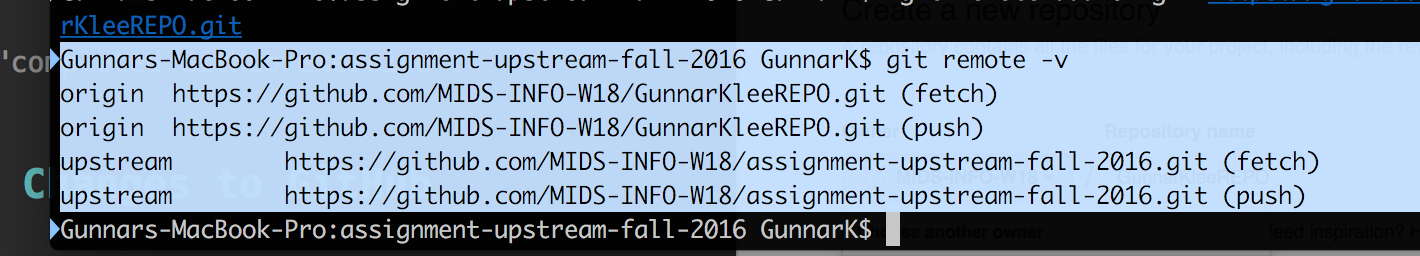
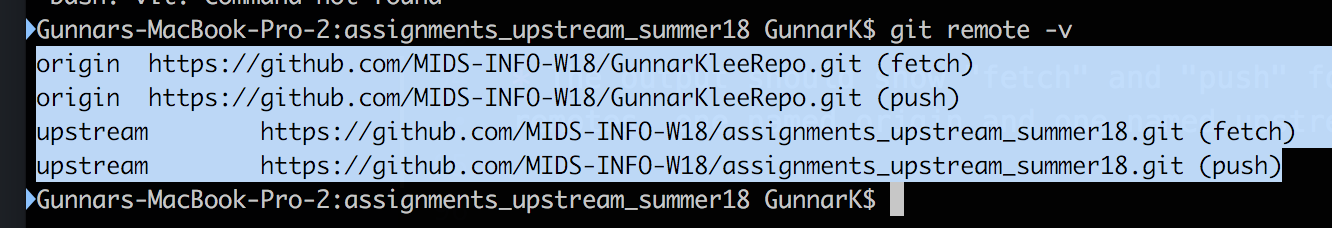
updated installation instructions for summer2018

diff --git a/Completing Your First Exercise With Git Reading Card.md b/Completing Your First Exercise With Git Reading Card.md
@@ -1,10 +1,10 @@
-## First excercise with Git 
+## First excercise with Git
 
 Before proceeding, use the following instructions to set up your local assignment repository.  This will be the place you work on your class assignments and it will be linked to two remote repositories on GitHub making a V shaped unidirectional workflow:
 
-**Download [1.15 The Course Workflow.pptx](https://github.com/MIDS-INFO-W18/Course-Syllabus/blob/master/week_01/1.15%20The%20Course%20Workflow.pptx) for a diagram of this process** 
+**Download [1.15 The Course Workflow.pptx](https://github.com/MIDS-INFO-W18/Course-Syllabus/blob/master/week_01/1.15%20The%20Course%20Workflow.pptx) for a diagram of this process**
 
-1. **assignments-upstream-spring18** - You should be able to find this repository in our class organization on GitHub: **https://github.com/MIDS-INFO-W18/assignments-upstream-spring18**. This is where we will post all class assignments.  You have read access to this repository, and each week you will use a pull command to download the latest assignments to your own machine then push your submissions to your student repository **(recall the "V" shape)**.
+1. **assignments_upstream_summer18** - You should be able to find this repository in our class organization on GitHub: **https://github.com/MIDS-INFO-W18/assignments_upstream_summer18**. This is where we will post all class assignments.  You have read access to this repository, and each week you will use a pull command to download the latest assignments to your own machine then push your submissions to your student repository **(recall the "V" shape)**.
 2. **Your student repository** - In this excercise you will make your own student remote repository. You should have write access to your student repisitory, but it will be only readable by you and your instructors.  When you complete your homework each week, you will use a push command to upload your work to this repository.
 
 ## Initial Setup
@@ -14,7 +14,7 @@ There are several ways that you can set up your local repository.  We recommend 
 First create an empty repository in Github for your homework, you can do this through the github user interface.
 
 
-## Create a new repository 
+## Create a new repository
 
 * this is done through the add menu on the upper right
 
@@ -30,7 +30,7 @@ First create an empty repository in Github for your homework, you can do this th
 
 --
 * Make the repository **private** with the radio button
- 
+
 # Important: Do not add a readme file you need an empty repository
 
 ![New repo menu item](images/CreateRepo_3.png)
@@ -57,19 +57,19 @@ You need to tell git that you will be pulling content (homeworks) onto your mach
 
 Open a command prompt and use it to navigate to your desktop or course working directory.  Then execute the following commands:
 
-*Note: lines preceeded by "#" are comments to explain each step and should not be executed.* 
+*Note: lines preceded by "#" are comments to explain each step and should not be executed.*
 
 ``` sh
 # clone the assignment repository onto your computer
 
-git clone https://github.com/MIDS-INFO-W18/assignments-upstream-spring18.git
+git clone https://github.com/MIDS-INFO-W18/assignments_upstream_summer18.git
 
 # Note: This may be an empty repository at the beginning of the course.
 
-cd assignments-upstream-spring18
+cd assignments_upstream_summer18
 # (or cd assignment-upstream-w18 for the 10 week course)
 
-git remote add upstream https://github.com/MIDS-INFO-W18/assignments-upstream-spring18.git
+git remote add upstream https://github.com/MIDS-INFO-W18/assignments_upstream_summer18.git
 ```
 
 You can find the URL for YourNameREPO by navigating to the appropriate repository in your web browser, then clicking on the "Clone or download" button in the upper right corner.
@@ -91,30 +91,28 @@ To check if you did everything right, execute the following command:
 git remote -v
 ```
 
-* The output should show "fetch" and "push" for two remotes, one named origin and one named upstream. 
+* The output should show "fetch" and "push" for two remotes, one named origin and one named upstream.
 
-
-###### Note: the name of the upstream folder differs based on the semester. The example screenshots are from fall 2016 thus we see: assignment-upstream-fall-2016.  
 
 ![New repo menu item](images/CreateRepo_7.png)
 
 
-* You should also use the **ls** command to confirm that the assignment files have been copied to your machine.
-	
+* You should also use the **ls** (list) command to confirm that the assignment files have been copied to your machine.
+
 
 ## Workflow for Each Week
 
-Each week, you will begin by navigating to your local version of **assignments-upstream-spring18**, and downloading the latest changes from the remote assignments-upstream-spring18 repository. You do this with a git pull:
+Each week, you will begin by navigating to your local version of **assignments_upstream_summer18**, and downloading the latest changes from the remote assignments_upstream_summer18 repository. You do this with a git pull:
 
 ``` sh
 git pull upstream master
 ```
 
-Next, you will have a **assignments-upstream-spring18/SUBMISSIONS** folder that you will make in the next exercise.
+Next, you will have a **assignments_upstream_summer18/SUBMISSIONS** folder that you will make in the next exercise.
 
-* Make a copy of your assigmment and move it to the SUBMISSIONS folder. 
- 
-* Complete all the exercises in the **assignments-upstream-spring18/SUBMISSIONS** folder on your local machine and commit your changes to git.  
+* Make a copy of your assignment and move it to the SUBMISSIONS folder.
+
+* Complete all the exercises in the **assignments_upstream_summer18/SUBMISSIONS** folder on your local machine and commit your changes to git.  
 
 * Finally, you'll push your changes up to your personal student repository on github.  You can do this with the following command:
 
@@ -125,24 +123,33 @@ git push origin master
 
 ## Completing the Exercise
 
-For this exercise you will post your first work to the assignments-upstream-spring18 repository. The Github repository **installation** contains the exercise. 
+For this exercise you will post your first work to the assignments_upstream_summer18 repository. The Github repository **installation** contains the exercise.
 
-* Make a new folder called **"SUBMISSIONS"** in your local assignments-upstream-spring18 folder
 
-	* Try using the **mkdir** command from within your local assignments-upstream-spring18
+* Make a new folder called **"SUBMISSIONS"** in your local assignments_upstream_summer18 folder
 
-* Clone the installation directory to your local machine
+  **IMPORTANT:** the SUBMISSIONS folder is the place that you can safely put modified files. Don't add or change files outside of the submissions folder because that can cause UGLY merge conflicts.
+
+	* Try using the **mkdir** command from within your local assignments_upstream_summer18
+
+
+
+* Now that you have your assignments_upstream repository set up on your computer *move out of it* and Clone the installation directory to your local machine
 
 ```sh
+cd ..
+
 git clone https://github.com/MIDS-INFO-W18/Installation.git
 ```
 
-* Copy the file "First\_GitHub\_Exercise.txt" 
-	* From your local **Installation** directory. 
-To your local **assignments-upstream-spring18/SUBMISSIONS** folder (or **assignment-upstream-w18/SUBMISSIONS** folder)
+* Copy the file "First\_GitHub\_Exercise.txt"
+
+	* From your local Installation repository.
+To your local **assignments_upstream_summer18/SUBMISSIONS** folder.
+
 	* To copy the file you can practice using the command line **cp** command or just drag and drop the file.
 
-* Open the file, answer the questions, and save.
+* Open the "First\_GitHub\_Exercise.txt", answer the questions, and save.
 
 * Commit the changes to your local repository. Go back to your command terminal and type the following.
 
@@ -154,7 +161,7 @@ git status
 ``` sh
 git add SUBMISSIONS/
 
-#check status to see that your file has been added as a new file (in green) 
+#check status to see that your file has been added as a new file (in green)
 
 git status
 
@@ -174,9 +181,9 @@ git push origin master
 Check the GitHub repository in your browser to confirm that your changes are there.
 
 
-## merging 
+## merging
 
-* Note: from time to time you may have to merge the upstream and your local drive when you **pull** in a version of the repository that are not the same. you may see a screen like this
+* Note: from time to time you may have to merge the upstream and your local drive when you **pull** in a version of the repository that are not the same. you may see a screen like this, We are using an old (2016) repository in this example
 
 ![New repo menu item](images/CreateRepo_8.png)
 
@@ -184,13 +191,15 @@ Check the GitHub repository in your browser to confirm that your changes are the
 
 to do this:
 
-1) Type 'i' to enter the "insert" mode (look to the bottom of the screen for the word "INSERT"
+1) Type **i** to enter the "insert" mode (look to the bottom of the screen for the word "INSERT"
 
 2) Use arrow keys to navigate to the line above the blue tilde and type in a message (any explanation about one line long)
 
-3) Exit the insert mode by pushing "esc" ("INSERT" will disapear) then 
+3) Exit the insert mode by pushing **esc** ("INSERT" will disapear) then
 
 4) type **:wq** this means *"write then quit"*
-you should see some sort of message indicating that the merge was sucessful as shown below.
+you should see some sort of message indicating that the merge was successful as shown below.
+
+5) **Side Note:** If you have not made any changes VIM will not want to quit and you can force it to quit without recording changes using **:q!**. * Since you are entering a merge note, This should not happen, however it is good to note that VIM has a rich array of advanced commands; a topic better left for later.*
 
 ![New repo menu item](images/CreateRepo_9.png)

diff --git a/Install 2 - Anaconda installation.md b/Install 2 - Anaconda installation.md
@@ -7,20 +7,20 @@ We are using the Anaconda distribution of python in order to smooth the process 
 
 **1. Download *python 3* from the [Anaconda distribution page](https://www.continuum.io/downloads)**
 
-* If you are working on a Linux or MacOS machine, you can choose to download the command line or graphical installer version. 
+* If you are working on a Linux or MacOS machine, you can choose to download the command line or graphical installer version.
 * Windows users should install the graphical package.
 
 ## With the graphical installer
 
-* The graphical package can be downloaded and the installer should walk you though the set up. 
+* The graphical package can be downloaded and the installer should walk you though the set up.
 * Be sure to allow the Anaconda to **"prepend the Anaconda3 install location to PATH"** so that the anaconda components can be found.
 
 ## From the command line
 
-* The steps are the same for MacOSX and Linux. 
+* The steps are the same for MacOSX and Linux.
 * Download the command line installer by **clicking** on the link, using **curl**, or using **wget** to download the file for you.
 
-		$ curl -O "http://repo.continuum.io/archive/Anaconda3-4.4.0-MacOSX-x86_64.sh"
+		$ curl -O "https://repo.anaconda.com/archive/Anaconda3-5.1.0-MacOSX-x86_64.pkg"
 
 **Execute the installer**
 
@@ -29,11 +29,11 @@ We are using the Anaconda distribution of python in order to smooth the process 
 * write "bash" even within the bash shell
 you should be able to locate the downloaded file in your local folder or in the downloads folder
 
-		Anaconda3-4.4.0-MacOSX-x86_64.sh
-		
+		Anaconda3-5.1.0-MacOSX-x86_64.sh
+
 		$ cd <directory-with-installer>
-		$ bash Anaconda3-4.4.0-MacOSX-x86_64.sh
-	
+		$ bash Anaconda3-5.1.0-MacOSX-x86_64.sh
+
 
 * Be sure to allow the Anaconda to **"prepend the Anaconda3 install location to PATH"** so that the anaconda components can be found
 
@@ -42,11 +42,11 @@ you should be able to locate the downloaded file in your local folder or in the 
 
 * Type python at the command line and you should see a version of python 3 listed
 
-		$ python 
+		$ python
 		"Python 3.5.1 |Continuum Analytics..." # some version of python 3
 
 * Exit and run the juptyer notebook
-		
+
 		>>> exit ()
 		$ Jupyter notebook
 
@@ -61,23 +61,23 @@ you should be able to locate the downloaded file in your local folder or in the 
 
 ______
 
-# Install a virtual environment 
+# Install a virtual environment
 ----
 
-* If python 2 opens instead of python 3 or if the Jupyter notebook does not open, try creating a virtual environment with conda. 
+* If python 2 opens instead of python 3 or if the Jupyter notebook does not open, try creating a virtual environment with conda.
 
 * you can use virtual environments to run isolated version of python and its packages and avoid incompatibilities.
 
 **also** If you already have Anaconda and have python 2 installed you can make a new "virtual environment" and specify python 3 during setup.
 
 # Create a new virtual environment
- 
+
 * the name py3jp is arbitrary
 * The virual enviroment allows you to specify the python version python packges to be installed.
 
 		$ conda create -n py3jp python=3 jupyter matplotlib
 
-* To activate this virtual environment 
+* To activate this virtual environment
 
 		$ source activate py3jp  
 
@@ -88,11 +88,6 @@ ______
 		$ Jupyter notebook
 		ctrl-c
 
-* When you are done 
-		
+* When you are done
+
 		$ source deactivate
-
-
-
- 
-
